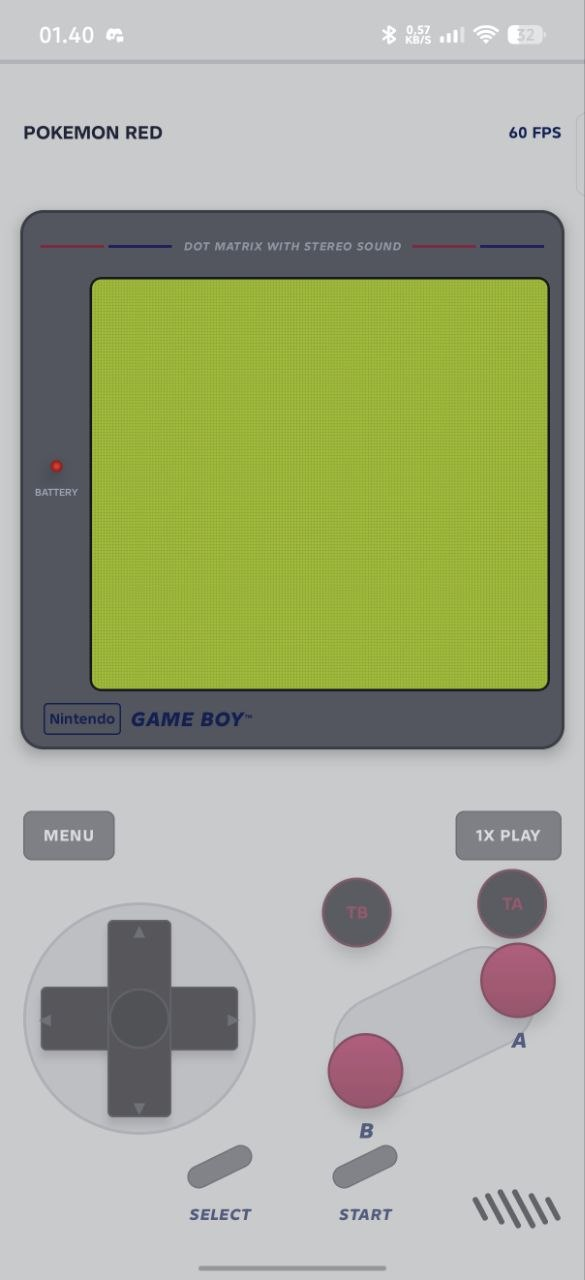
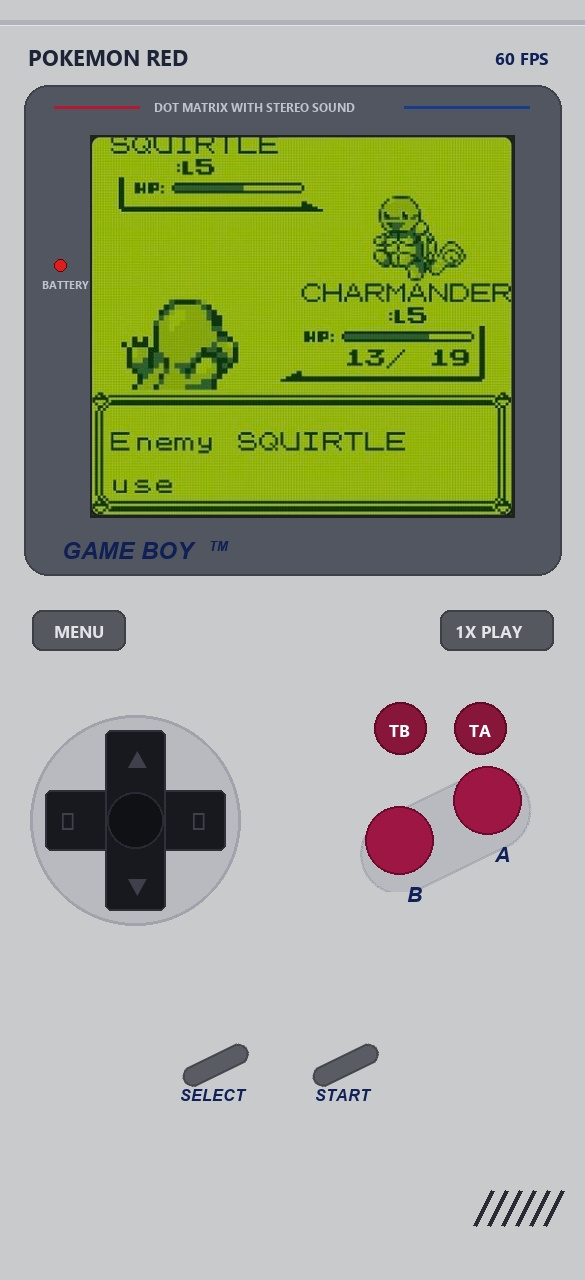
docs: replace device screenshots with clean, borderless UI captures
- Remove device status bar icons (clock, battery, Wi-Fi) and OS navigation bars
- Reflect latest UI state: removed Nintendo brand badge, calibrated A/B buttons
  with right-shifted italic labels, and top groove accent line
- Add automated screenshot generation script in scripts/generate_screenshots.py

diff --git a/scripts/generate_screenshots.py b/scripts/generate_screenshots.py
@@ -1,0 +1,288 @@
+import math
+from PIL import Image, ImageDraw, ImageFont, ImageFilter
+
+W, H = 585, 1280
+
+FONT_REG = "/mnt/c/Windows/Fonts/segoeui.ttf"
+FONT_BOLD = "/mnt/c/Windows/Fonts/segoeuib.ttf"
+FONT_ARIAL_BOLD = "/mnt/c/Windows/Fonts/arialbd.ttf"
+FONT_ARIAL_BOLD_ITALIC = "/mnt/c/Windows/Fonts/arialbi.ttf"
+FONT_ARIAL_ITALIC = "/mnt/c/Windows/Fonts/ariali.ttf"
+
+def get_font(path, size):
+    try:
+        return ImageFont.truetype(path, size)
+    except Exception:
+        return ImageFont.load_default()
+
+# Preload fonts
+f_title = get_font(FONT_BOLD, 22)
+f_badge = get_font(FONT_BOLD, 17)
+f_bezel_top = get_font(FONT_BOLD, 12)
+f_led = get_font(FONT_BOLD, 11)
+f_gameboy = get_font(FONT_ARIAL_BOLD_ITALIC, 24)
+f_tm = get_font(FONT_ARIAL_BOLD_ITALIC, 13)
+f_pill = get_font(FONT_BOLD, 17)
+f_arrow = get_font(FONT_BOLD, 24)
+f_action = get_font(FONT_BOLD, 28)
+f_turbo = get_font(FONT_BOLD, 17)
+f_dmg_label = get_font(FONT_ARIAL_BOLD_ITALIC, 21)
+f_dmg_pill_label = get_font(FONT_ARIAL_BOLD_ITALIC, 16)
+
+# Load game screen
+try:
+    game_screen = Image.open("/tmp/extracted_game_screen.png").convert("RGBA")
+except Exception:
+    game_screen = Image.new("RGBA", (430, 387), (155, 188, 15, 255))
+
+# Scale game screen to fit neatly in bezel (width ~420, height ~378)
+GW, GH = 420, 378
+game_screen_scaled = game_screen.resize((GW, GH), Image.Resampling.LANCZOS)
+
+# ----------------------------------------------------
+# 1. GENERATE MODERN DARK THEME SCREENSHOT
+# ----------------------------------------------------
+def generate_modern():
+    img = Image.new("RGBA", (W, H), (12, 13, 16, 255))
+    draw = ImageDraw.Draw(img)
+
+    # Top App Header
+    # Left: POKEMON RED
+    draw.text((28, 38), "POKEMON RED", font=f_title, fill=(208, 213, 224, 255))
+    # Right: 2X FAST (pink) and 119 FPS (cyan)
+    draw.text((400, 42), "2X FAST", font=f_badge, fill=(255, 42, 109, 255))
+    draw.text((485, 42), "119 FPS", font=f_badge, fill=(0, 229, 255, 255))
+
+    # RetroDisplay Bezel
+    bx, by, bw, bh = 24, 85, 537, 490
+    # Outer Bezel
+    draw.rounded_rectangle([bx, by, bx + bw, by + bh], radius=24, fill=(26, 29, 36, 255), outline=(42, 46, 56, 255), width=2)
+
+    # Bezel Top Line: Accent stripes and "DOT MATRIX WITH STEREO SOUND"
+    top_y = by + 22
+    # Left red stripe
+    draw.line([(bx + 30, top_y), (bx + 115, top_y)], fill=(195, 30, 60, 255), width=3)
+    # Center text
+    draw.text((bx + 130, top_y - 8), "DOT MATRIX WITH STEREO SOUND", font=f_bezel_top, fill=(142, 149, 165, 255))
+    # Right blue stripe
+    draw.line([(bx + 380, top_y), (bx + 505, top_y)], fill=(30, 80, 180, 255), width=3)
+
+    # Battery LED
+    led_x, led_y = bx + 36, by + 180
+    draw.ellipse([led_x - 6, led_y - 6, led_x + 6, led_y + 6], fill=(240, 30, 30, 255), outline=(120, 0, 0, 255), width=1)
+    draw.text((led_x - 18, led_y + 12), "BATTERY", font=f_led, fill=(142, 149, 165, 255))
+
+    # Place LCD Game Screen
+    gx = bx + (bw - GW) // 2 + 10
+    gy = by + 52
+    # Draw screen border / shadow
+    draw.rectangle([gx - 2, gy - 2, gx + GW + 2, gy + GH + 2], fill=(10, 15, 10, 255))
+    img.paste(game_screen_scaled, (gx, gy), game_screen_scaled)
+
+    # Bezel Bottom Text: clean GAME BOY™ (NO Nintendo!)
+    bot_y = by + bh - 38
+    draw.text((bx + 38, bot_y), "GAME BOY", font=f_gameboy, fill=(208, 213, 224, 255))
+    draw.text((bx + 185, bot_y + 2), "TM", font=f_tm, fill=(208, 213, 224, 255))
+
+    # Touch Controller Section
+    ctrl_y = 610
+
+    # Top Row: MENU pill & 2X TURBO pill
+    # MENU Pill
+    draw.rounded_rectangle([32, ctrl_y, 140, ctrl_y + 44], radius=22, fill=(36, 39, 49, 255), outline=(59, 64, 78, 255), width=2)
+    draw.text((60, ctrl_y + 10), "MENU", font=f_pill, fill=(208, 213, 224, 255))
+
+    # 2X TURBO Pill (Active Cyan)
+    draw.rounded_rectangle([W - 176, ctrl_y, W - 32, ctrl_y + 44], radius=22, fill=(0, 229, 255, 255), outline=(0, 229, 255, 255), width=2)
+    draw.text((W - 160, ctrl_y + 10), "2X TURBO", font=f_pill, fill=(0, 0, 0, 255))
+
+    # Middle Row: D-Pad & Action Buttons
+    mid_y = ctrl_y + 80
+
+    # Modern Radial D-Pad
+    dpad_cx, dpad_cy = 135, mid_y + 130
+    dpad_r = 105
+    # Outer circle
+    draw.ellipse([dpad_cx - dpad_r, dpad_cy - dpad_r, dpad_cx + dpad_r, dpad_cy + dpad_r], fill=(28, 30, 38, 255), outline=(59, 64, 78, 255), width=3)
+    # Center circle
+    draw.ellipse([dpad_cx - 35, dpad_cy - 35, dpad_cx + 35, dpad_cy + 35], fill=(20, 22, 28, 255), outline=(50, 55, 68, 255), width=2)
+    # Arrows
+    draw.text((dpad_cx - 10, dpad_cy - 85), "▲", font=f_arrow, fill=(142, 149, 165, 255))
+    draw.text((dpad_cx - 10, dpad_cy + 55), "▼", font=f_arrow, fill=(142, 149, 165, 255))
+    draw.text((dpad_cx - 80, dpad_cy - 16), "◀", font=f_arrow, fill=(142, 149, 165, 255))
+    draw.text((dpad_cx + 60, dpad_cy - 16), "▶", font=f_arrow, fill=(142, 149, 165, 255))
+
+    # Right: Action Buttons Group
+    act_cx, act_cy = 445, mid_y + 130
+
+    # Turbo Buttons Row (TB, TA)
+    tb_cx, tb_cy = act_cx - 50, act_cy - 85
+    ta_cx, ta_cy = act_cx + 35, act_cy - 85
+    # TB
+    draw.ellipse([tb_cx - 28, tb_cy - 28, tb_cx + 28, tb_cy + 28], fill=(30, 33, 41, 255), outline=(255, 42, 109, 180), width=2)
+    draw.text((tb_cx - 12, tb_cy - 11), "TB", font=f_turbo, fill=(255, 92, 138, 255))
+    # TA
+    draw.ellipse([ta_cx - 28, ta_cy - 28, ta_cx + 28, ta_cy + 28], fill=(30, 33, 41, 255), outline=(0, 229, 255, 180), width=2)
+    draw.text((ta_cx - 12, ta_cy - 11), "TA", font=f_turbo, fill=(0, 229, 255, 255))
+
+    # Main Action Buttons (B, A) in diagonal offset
+    b_cx, b_cy = act_cx - 55, act_cy + 25
+    a_cx, a_cy = act_cx + 38, act_cy - 15
+    # Button B (Magenta)
+    draw.ellipse([b_cx - 36, b_cy - 36, b_cx + 36, b_cy + 36], fill=(34, 37, 46, 255), outline=(255, 42, 109, 220), width=3)
+    draw.text((b_cx - 10, b_cy - 18), "B", font=f_action, fill=(255, 42, 109, 255))
+    # Button A (Cyan)
+    draw.ellipse([a_cx - 36, a_cy - 36, a_cx + 36, a_cy + 36], fill=(34, 37, 46, 255), outline=(0, 229, 255, 220), width=3)
+    draw.text((a_cx - 10, a_cy - 18), "A", font=f_action, fill=(0, 229, 255, 255))
+
+    # Bottom Row: SELECT & START Pills
+    bot_pill_y = ctrl_y + 440
+    # SELECT
+    draw.rounded_rectangle([155, bot_pill_y, 255, bot_pill_y + 42], radius=21, fill=(36, 39, 49, 255), outline=(59, 64, 78, 255), width=2)
+    draw.text((178, bot_pill_y + 9), "SELECT", font=f_pill, fill=(208, 213, 224, 255))
+    # START
+    draw.rounded_rectangle([325, bot_pill_y, 425, bot_pill_y + 42], radius=21, fill=(36, 39, 49, 255), outline=(59, 64, 78, 255), width=2)
+    draw.text((352, bot_pill_y + 9), "START", font=f_pill, fill=(208, 213, 224, 255))
+
+    return img.convert("RGB")
+
+# ----------------------------------------------------
+# 2. GENERATE CLASSIC DMG-01 THEME SCREENSHOT
+# ----------------------------------------------------
+def generate_dmg():
+    # Warm gray ABS plastic background
+    img = Image.new("RGBA", (W, H), (200, 202, 204, 255))
+    draw = ImageDraw.Draw(img)
+
+    # Top groove accent line
+    draw.rectangle([0, 20, W, 24], fill=(176, 179, 186, 255))
+    draw.line([(0, 25), (W, 25)], fill=(225, 228, 232, 255), width=1)
+
+    # Top Header
+    draw.text((28, 42), "POKEMON RED", font=f_title, fill=(30, 36, 56, 255))
+    draw.text((495, 46), "60 FPS", font=f_badge, fill=(15, 32, 90, 255))
+
+    # RetroDisplay Bezel (Slate Gray #525660)
+    bx, by, bw, bh = 24, 85, 537, 490
+    draw.rounded_rectangle([bx, by, bx + bw, by + bh], radius=24, fill=(82, 86, 96, 255), outline=(62, 65, 72, 255), width=2)
+
+    # Bezel Top Line: Accent stripes and "DOT MATRIX WITH STEREO SOUND"
+    top_y = by + 22
+    draw.line([(bx + 30, top_y), (bx + 115, top_y)], fill=(180, 25, 50, 255), width=3)
+    draw.text((bx + 130, top_y - 8), "DOT MATRIX WITH STEREO SOUND", font=f_bezel_top, fill=(190, 195, 205, 255))
+    draw.line([(bx + 380, top_y), (bx + 505, top_y)], fill=(25, 60, 140, 255), width=3)
+
+    # Battery LED
+    led_x, led_y = bx + 36, by + 180
+    draw.ellipse([led_x - 6, led_y - 6, led_x + 6, led_y + 6], fill=(220, 30, 30, 255), outline=(100, 0, 0, 255), width=1)
+    draw.text((led_x - 18, led_y + 12), "BATTERY", font=f_led, fill=(190, 195, 205, 255))
+
+    # Place LCD Game Screen
+    gx = bx + (bw - GW) // 2 + 10
+    gy = by + 52
+    draw.rectangle([gx - 2, gy - 2, gx + GW + 2, gy + GH + 2], fill=(30, 35, 30, 255))
+    img.paste(game_screen_scaled, (gx, gy), game_screen_scaled)
+
+    # Bezel Bottom Text: Clean "GAME BOY™" in dark navy (NO Nintendo badge!)
+    bot_y = by + bh - 38
+    draw.text((bx + 38, bot_y), "GAME BOY", font=f_gameboy, fill=(16, 32, 85, 255))
+    draw.text((bx + 185, bot_y + 2), "TM", font=f_tm, fill=(16, 32, 85, 255))
+
+    # Touch Controller Section (Classic DMG-01)
+    ctrl_y = 610
+
+    # Top Row: Utility buttons (MENU and 1X PLAY)
+    # MENU
+    draw.rounded_rectangle([32, ctrl_y, 125, ctrl_y + 40], radius=10, fill=(86, 88, 96, 255), outline=(62, 64, 72, 255), width=2)
+    draw.text((54, ctrl_y + 9), "MENU", font=f_pill, fill=(226, 228, 232, 255))
+
+    # 1X PLAY
+    draw.rounded_rectangle([W - 145, ctrl_y, W - 32, ctrl_y + 40], radius=10, fill=(86, 88, 96, 255), outline=(62, 64, 72, 255), width=2)
+    draw.text((W - 130, ctrl_y + 9), "1X PLAY", font=f_pill, fill=(226, 228, 232, 255))
+
+    # Middle Row: Black Cross D-Pad on Left & Action Buttons on Right
+    mid_y = ctrl_y + 80
+
+    # Authentic Classic DMG Black Cross D-Pad
+    dpad_cx, dpad_cy = 135, mid_y + 130
+    # Outer recessed circular well
+    draw.ellipse([dpad_cx - 105, dpad_cy - 105, dpad_cx + 105, dpad_cy + 105], fill=(184, 186, 192, 255), outline=(160, 163, 171, 255), width=3)
+    # Horizontal cross bar
+    hw, hh = 90, 30
+    draw.rounded_rectangle([dpad_cx - hw, dpad_cy - hh, dpad_cx + hw, dpad_cy + hh], radius=6, fill=(24, 25, 30, 255), outline=(46, 49, 58, 255), width=2)
+    # Vertical cross bar
+    draw.rounded_rectangle([dpad_cx - hh, dpad_cy - hw, dpad_cx + hh, dpad_cy + hw], radius=6, fill=(24, 25, 30, 255), outline=(46, 49, 58, 255), width=2)
+    # Center concave circular thumb rest
+    draw.ellipse([dpad_cx - 28, dpad_cy - 28, dpad_cx + 28, dpad_cy + 28], fill=(16, 17, 20, 255), outline=(40, 42, 51, 255), width=2)
+    # Embossed arrow lines
+    draw.text((dpad_cx - 8, dpad_cy - 78), "▲", font=f_arrow, fill=(62, 65, 75, 255))
+    draw.text((dpad_cx - 8, dpad_cy + 50), "▼", font=f_arrow, fill=(62, 65, 75, 255))
+    draw.text((dpad_cx - 75, dpad_cy - 16), "◀", font=f_arrow, fill=(62, 65, 75, 255))
+    draw.text((dpad_cx + 56, dpad_cy - 16), "▶", font=f_arrow, fill=(62, 65, 75, 255))
+
+    # Right: Action Buttons (Angled Capsule Recess + Magenta Buttons + Turbo TB/TA)
+    act_cx, act_cy = 445, mid_y + 130
+
+    # Turbo Buttons (TB, TA) above capsule
+    tb_cx, tb_cy = act_cx - 45, act_cy - 92
+    ta_cx, ta_cy = act_cx + 35, act_cy - 92
+    draw.ellipse([tb_cx - 26, tb_cy - 26, tb_cx + 26, tb_cy + 26], fill=(136, 21, 58, 255), outline=(100, 10, 38, 255), width=2)
+    draw.text((tb_cx - 11, tb_cy - 10), "TB", font=f_turbo, fill=(255, 255, 255, 255))
+    draw.ellipse([ta_cx - 26, ta_cy - 26, ta_cx + 26, ta_cy + 26], fill=(136, 21, 58, 255), outline=(100, 10, 38, 255), width=2)
+    draw.text((ta_cx - 11, ta_cy - 10), "TA", font=f_turbo, fill=(255, 255, 255, 255))
+
+    # Angled Capsule Recess (Rotated -26 degrees)
+    # We create a layer for the capsule, rotate it, and paste
+    capsule_layer = Image.new("RGBA", (220, 120), (0, 0, 0, 0))
+    c_draw = ImageDraw.Draw(capsule_layer)
+    c_draw.rounded_rectangle([20, 20, 200, 100], radius=40, fill=(184, 186, 192, 255), outline=(160, 163, 171, 255), width=2)
+    rotated_capsule = capsule_layer.rotate(26, resample=Image.Resampling.BICUBIC)
+    img.paste(rotated_capsule, (act_cx - 110, act_cy - 48), rotated_capsule)
+
+    # Magenta Action Buttons B and A (Calibrated offsets: B at -46x, +32y; A at +46x, -12y)
+    b_cx, b_cy = act_cx - 46, act_cy + 20
+    a_cx, a_cy = act_cx + 42, act_cy - 20
+    # Button B
+    draw.ellipse([b_cx - 34, b_cy - 34, b_cx + 34, b_cy + 34], fill=(158, 22, 68, 255), outline=(110, 10, 44, 255), width=2)
+    # Button A
+    draw.ellipse([a_cx - 34, a_cy - 34, a_cx + 34, a_cy + 34], fill=(158, 22, 68, 255), outline=(110, 10, 44, 255), width=2)
+
+    # Labels B and A in dark navy, italic bold, shifted +10px to the right!
+    draw.text((b_cx + 8, b_cy + 42), "B", font=f_dmg_label, fill=(15, 32, 90, 255))
+    draw.text((a_cx + 8, a_cy + 42), "A", font=f_dmg_label, fill=(15, 32, 90, 255))
+
+    # Bottom Row: SELECT & START (Angled Rubber Pills)
+    bot_pill_y = ctrl_y + 440
+    # Create layer for slanted pills
+    pill_layer = Image.new("RGBA", (90, 50), (0, 0, 0, 0))
+    p_draw = ImageDraw.Draw(pill_layer)
+    p_draw.rounded_rectangle([10, 15, 80, 35], radius=10, fill=(90, 92, 100, 255), outline=(66, 68, 76, 255), width=2)
+    slanted_pill = pill_layer.rotate(26, resample=Image.Resampling.BICUBIC)
+
+    # Paste SELECT pill
+    img.paste(slanted_pill, (170, bot_pill_y - 10), slanted_pill)
+    draw.text((180, bot_pill_y + 36), "SELECT", font=f_dmg_pill_label, fill=(15, 32, 90, 255))
+
+    # Paste START pill
+    img.paste(slanted_pill, (300, bot_pill_y - 10), slanted_pill)
+    draw.text((315, bot_pill_y + 36), "START", font=f_dmg_pill_label, fill=(15, 32, 90, 255))
+
+    # Speaker Grille (6 diagonal slots at bottom-right)
+    grille_x, grille_y = W - 110, H - 90
+    for i in range(6):
+        gx = grille_x + i * 14
+        gy = grille_y
+        draw.line([(gx, gy + 35), (gx + 18, gy)], fill=(40, 43, 51, 255), width=4)
+
+    return img.convert("RGB")
+
+# Generate and save
+print("Generating modern theme screenshot...")
+modern_img = generate_modern()
+modern_img.save("/home/akhdan/Projects/NovaGB/docs/screenshots/gameplay_pokemon.jpg", quality=95)
+
+print("Generating classic DMG theme screenshot...")
+dmg_img = generate_dmg()
+dmg_img.save("/home/akhdan/Projects/NovaGB/docs/screenshots/classic_dmg_theme.jpg", quality=95)
+
+print("Screenshots successfully generated and saved to docs/screenshots/")
